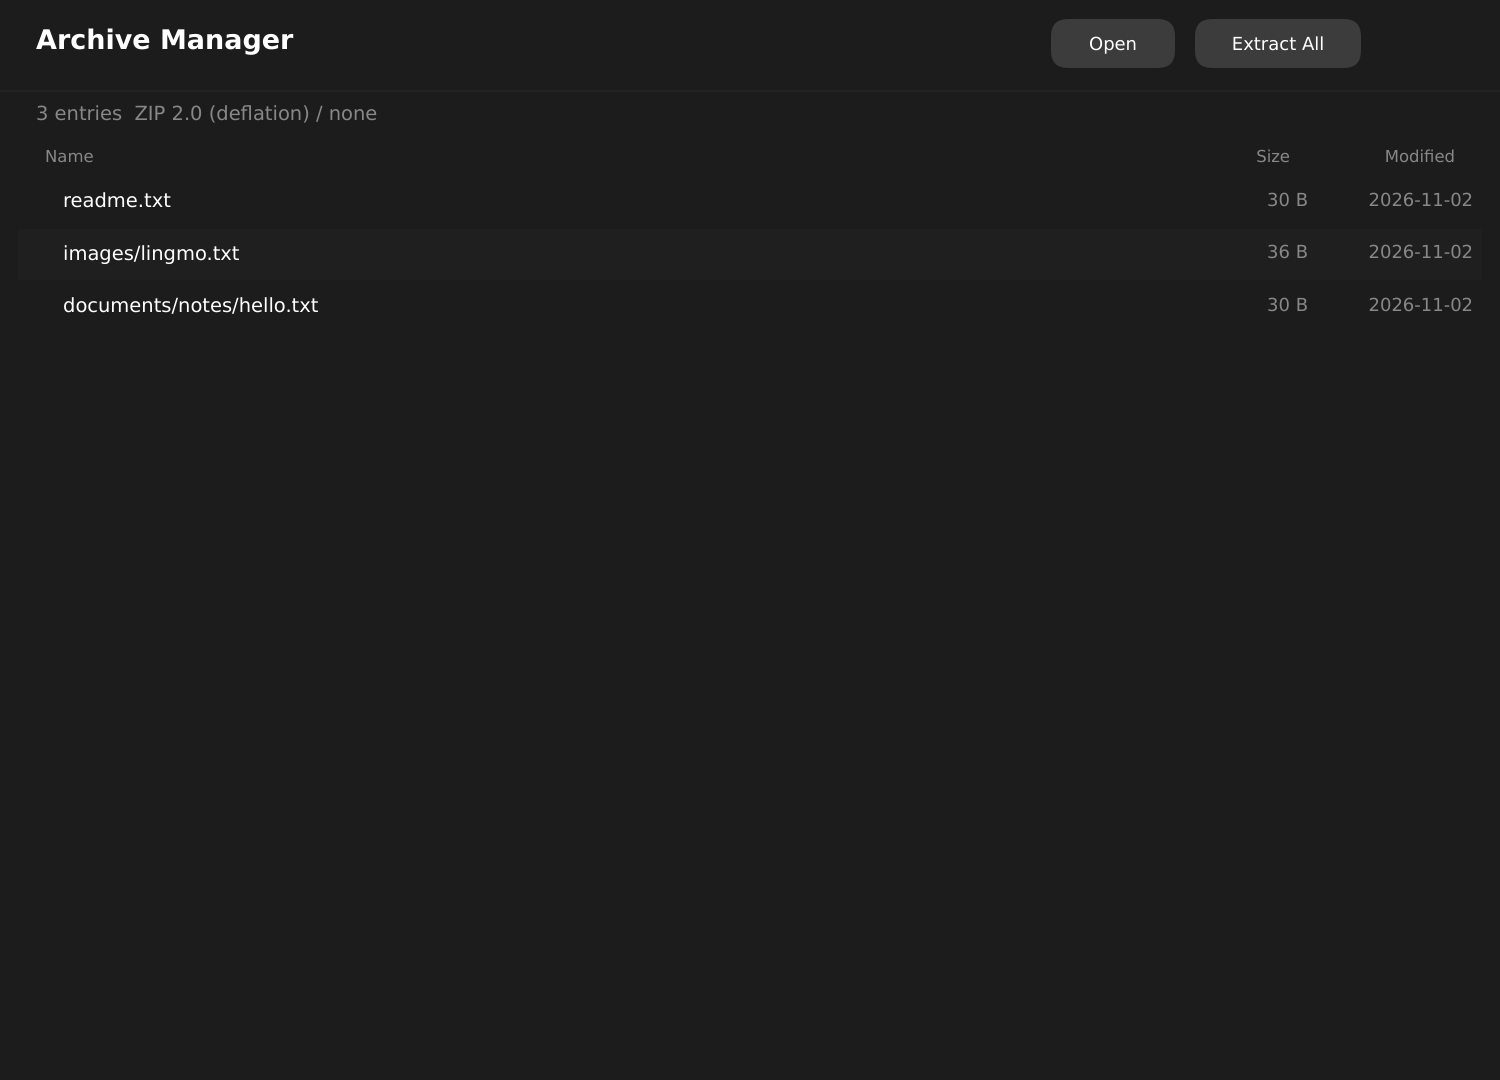
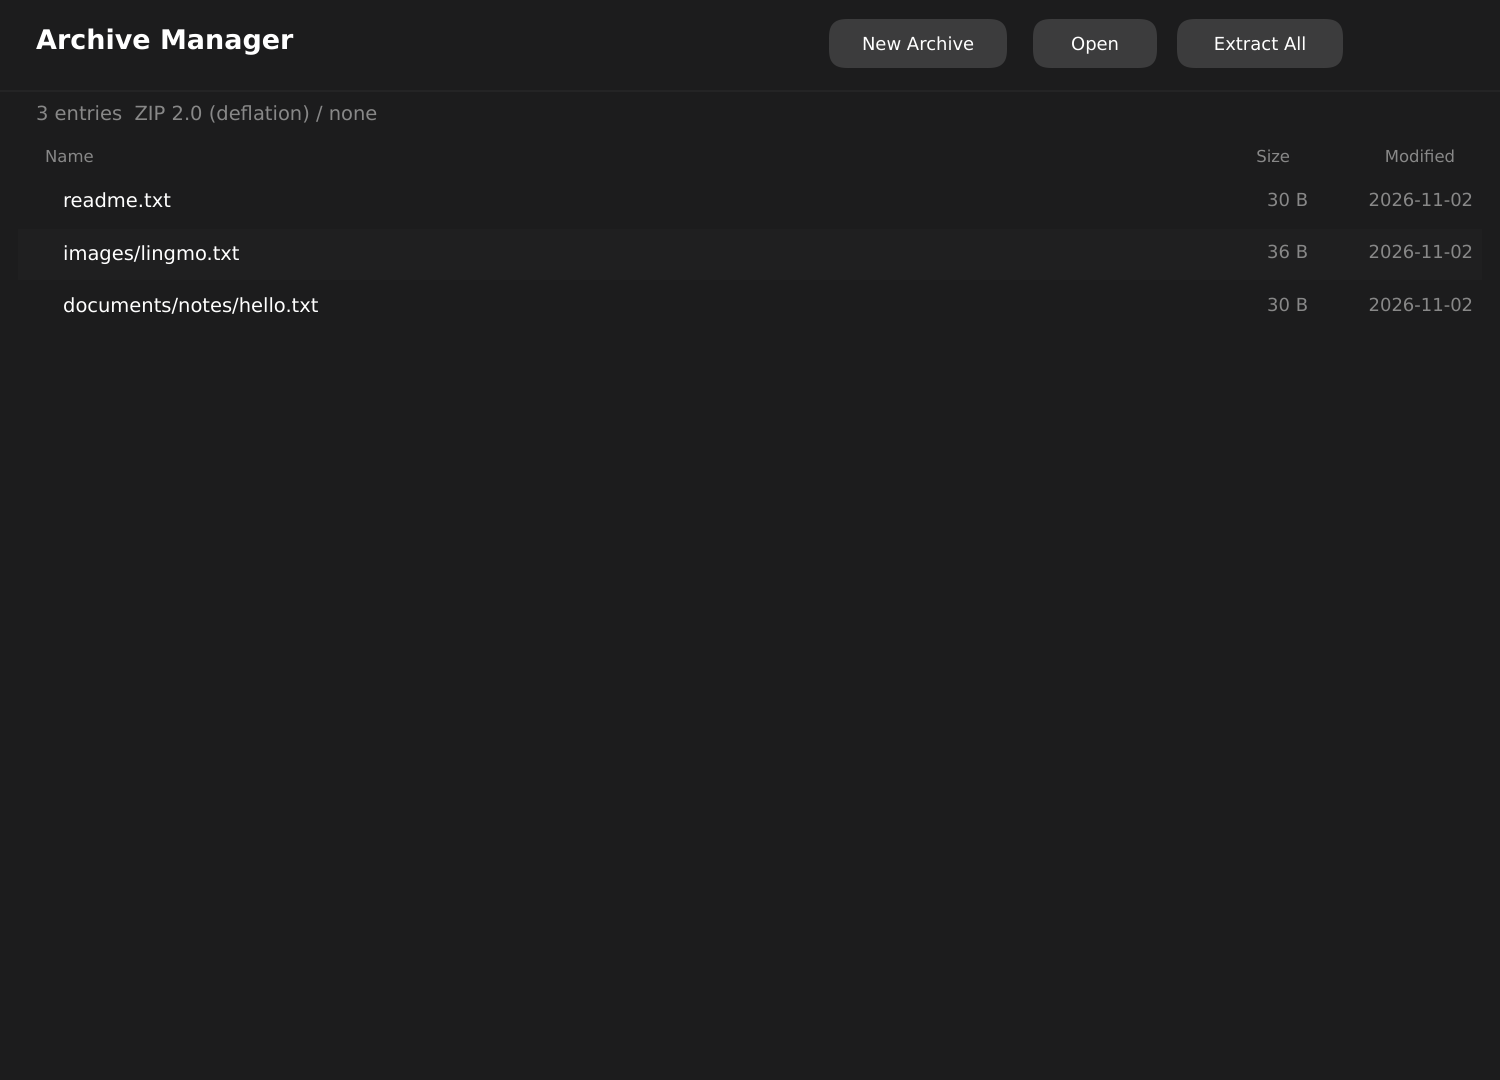
feat-archive-compression

Changed region(s): [[0.552, 0.0, 0.92, 0.0611]]

diff --git a/src/main.cpp b/src/main.cpp
@@ -103,13 +103,16 @@ private:
 class ArchiveRoot : public View
 {
 public:
-    explicit ArchiveRoot(std::function<void()> open, std::function<void()> extract)
+    explicit ArchiveRoot(std::function<void()> open, std::function<void()> extract,
+                         std::function<void()> compress)
         : m_openAction(std::move(open))
         , m_extractAction(std::move(extract))
+        , m_compressAction(std::move(compress))
     {
         m_title = addChild<Label>(tr("Archive Manager"));
         m_title->setFontSize(18);
         m_title->setWeight(600);
+        m_compress = addChild<Button>(tr("New Archive"));
         m_open = addChild<Button>(tr("Open"));
         m_extract = addChild<Button>(tr("Extract All"));
         m_info = addChild<Label>(tr("No archive open"));
@@ -135,6 +138,7 @@ public:
         m_status->setElide(Label::Elide::Middle);
         m_open->onClicked = [this] { m_openAction(); };
         m_extract->onClicked = [this] { m_extractAction(); };
+        m_compress->onClicked = [this] { m_compressAction(); };
     }
 
     void showListing(const archivemanager::Listing& listing)
@@ -172,8 +176,9 @@ protected:
     {
         const RectF rect = localRect();
         m_title->setGeometry({24, 16, 240, 28});
-        m_open->setGeometry({rect.width - 300, 12, 84, 34});
-        m_extract->setGeometry({rect.width - 204, 12, 112, 34});
+        m_compress->setGeometry({rect.width - 448, 12, 120, 34});
+        m_open->setGeometry({rect.width - 312, 12, 84, 34});
+        m_extract->setGeometry({rect.width - 216, 12, 112, 34});
         m_info->setGeometry({24, 68, std::max(0.0, rect.width - 48), 20});
         const double listWidth = std::max(0.0, rect.width - 24);
         m_columnName->setGeometry({30, 98, std::max(0.0, listWidth - 250), 18});
@@ -194,7 +199,9 @@ protected:
 private:
     std::function<void()> m_openAction;
     std::function<void()> m_extractAction;
+    std::function<void()> m_compressAction;
     Label* m_title = nullptr;
+    Button* m_compress = nullptr;
     Button* m_open = nullptr;
     Button* m_extract = nullptr;
     Label* m_info = nullptr;
@@ -216,7 +223,8 @@ public:
         m_window.resize({1000, 720});
         m_window.setMinimumSize({640, 440});
         auto root = std::make_unique<ArchiveRoot>([this] { openWithChooser(); },
-                                                 [this] { extractAll(); });
+                                                 [this] { extractAll(); },
+                                                 [this] { compressFolder(); });
         m_root = root.get();
         m_window.setContentView(std::move(root));
     }
@@ -273,12 +281,57 @@ public:
             m_root->setStatus(tr("Extracted to ") + destination.string());
     }
 
+    void compressFolder()
+    {
+        m_chooser = std::make_unique<FileChooser>(&m_window);
+        m_chooser->setMode(FileChooser::Mode::OpenFolder);
+        m_chooser->setTitle(tr("Choose a folder to compress"));
+        m_chooser->onAccepted = [this](const std::vector<std::string>& paths, const std::string&) {
+            if (paths.empty())
+                return;
+            const std::string source = paths.front();
+            m_saveChooser = std::make_unique<FileChooser>(&m_window);
+            m_saveChooser->setMode(FileChooser::Mode::SaveFile);
+            m_saveChooser->setTitle(tr("Save Archive"));
+            m_saveChooser->setCurrentFolder(std::filesystem::path(source).parent_path().string());
+            m_saveChooser->setCurrentFile(
+                    (std::filesystem::path(source).filename().string().empty()
+                             ? std::string("archive")
+                             : std::filesystem::path(source).filename().string())
+                    + ".zip");
+            m_saveChooser->setFilters({{tr("ZIP archive"), {"*.zip"}, {}},
+                                      {tr("Tar archive"), {"*.tar", "*.tar.gz", "*.tgz"}, {}}});
+            m_saveChooser->onAccepted = [this, source](const std::vector<std::string>& files,
+                                                       const std::string&) {
+                if (files.empty())
+                    return;
+                archivemanager::CreateFormat format = archivemanager::CreateFormat::Zip;
+                if (!archivemanager::createFormatForPath(files.front(), &format)) {
+                    m_root->setStatus(tr("Use a .zip, .tar or .tar.gz file name"));
+                    return;
+                }
+                const archivemanager::CreateResult result =
+                        archivemanager::createArchive(files.front(), {source}, format);
+                if (!result.ok) {
+                    m_root->setStatus(result.error.empty() ? tr("Could not create the archive")
+                                                           : result.error);
+                    return;
+                }
+                openArchive(files.front());
+                m_root->setStatus(tr("Archive created"));
+            };
+            m_saveChooser->open();
+        };
+        m_chooser->open();
+    }
+
     const archivemanager::Listing& listing() const { return m_listing; }
 
 private:
     Window m_window;
     ArchiveRoot* m_root = nullptr;
     std::unique_ptr<FileChooser> m_chooser;
+    std::unique_ptr<FileChooser> m_saveChooser;
     archivemanager::Listing m_listing;
     std::string m_path;
 };
